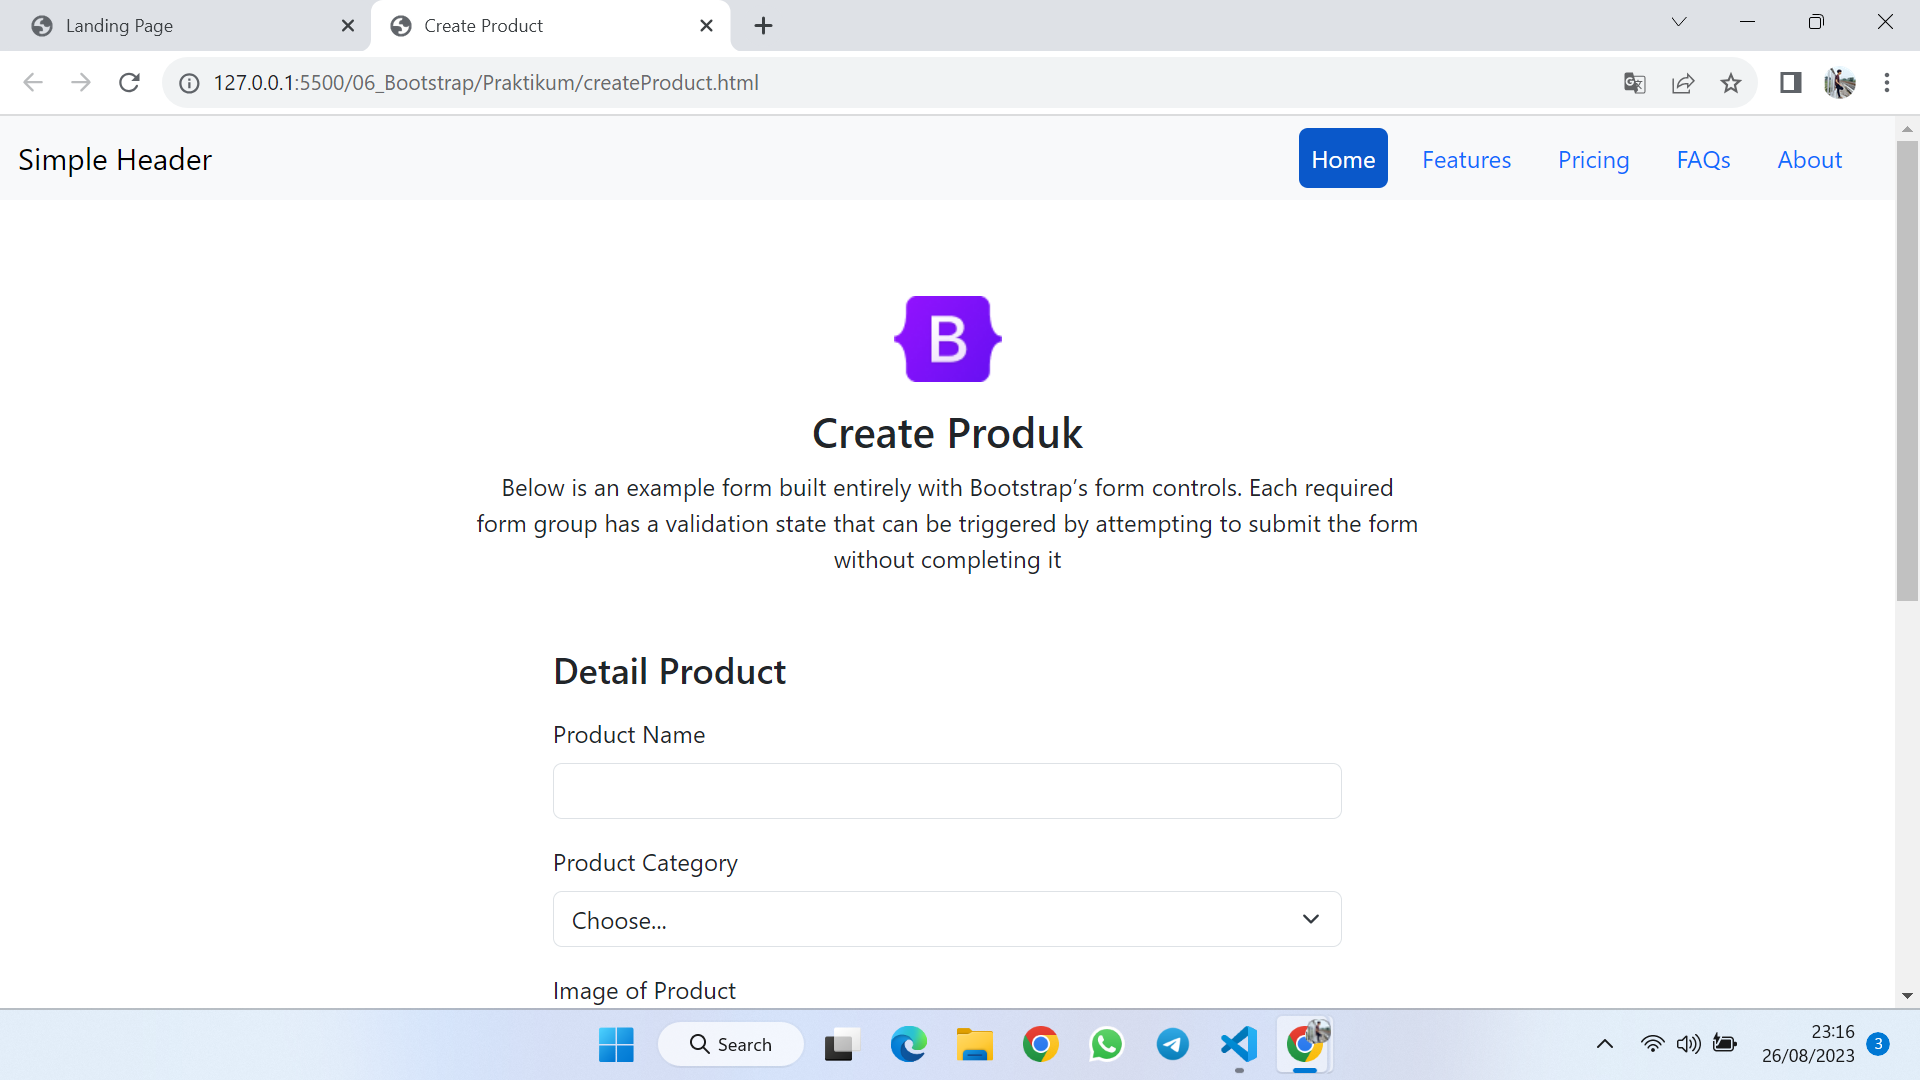
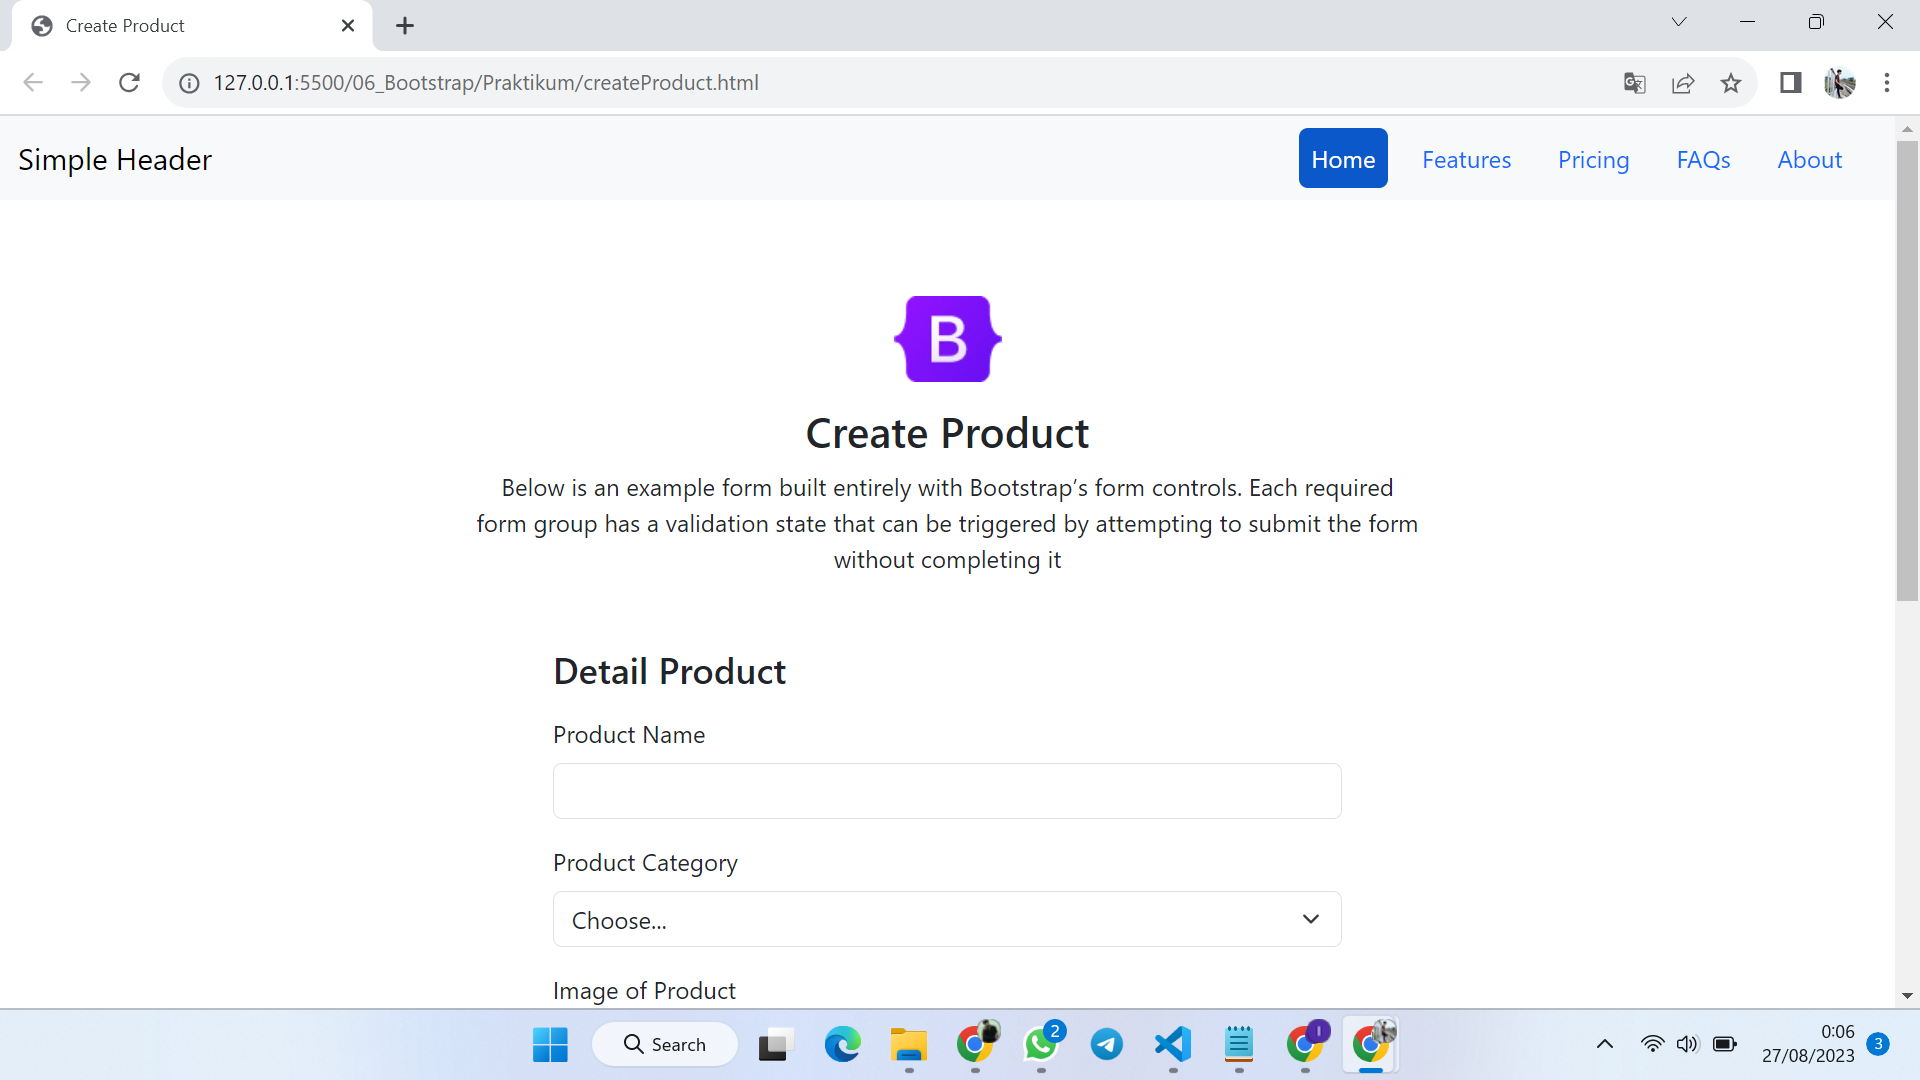
docs: Mengerjakan Tugas Bootstrap

diff --git a/06_Bootstrap/Praktikum/createProduct.html b/06_Bootstrap/Praktikum/createProduct.html
@@ -45,7 +45,7 @@
     <!-- logo bootstrap -->
     <div class="col-md-12 mx-auto text-center mt-5">
         <img src="Assets/Images/bootstrap-logo.svg.png" alt="Logo Bootstrap" class="mt-3 mb-3">
-        <h3>Create Produk</h3>
+        <h3>Create Product</h3>
         <p class="col-md-6 mx-auto">Below is an example form built entirely with Bootstrap’s form controls. Each required form group has a validation state that can be triggered by attempting to submit the form without completing it</p>
     </div>
 
